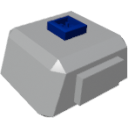
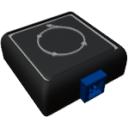
Updated all sensors

diff --git a/src/components/sensors/DensitySensor.md b/src/components/sensors/DensitySensor.md
@@ -1,0 +1,23 @@
+<p align="center">
+  <img src="DensitySensor.png" />
+</p>
+
+|Component|`DensitySensor`|
+|---|---|
+|**Module**|`ARCHEAN_sensor1`|
+|**Mass**|1 kg|
+|[**Size**](# "Based on the component's occupancy in a fixed 25cm grid.")|25 x 25 x 25 cm|
+#
+---
+
+# Description
+The density sensor is a component that measures the density and composition of the environment in which it is placed.
+
+# Usage
+Once placed on your build, it can be connected to a computer, for example, to retrieve the density and composition of the environment. The composition is given as a key-value string.
+
+### List of outputs
+|Channel|Function|value|
+|---|---|---|
+|0|Density (kg/m³)|number|
+|1|Composition|text|

diff --git a/src/SUMMARY.md b/src/SUMMARY.md
@@ -100,6 +100,7 @@
 		- [Linear Velocity Sensor](components/sensors/LinearVelocitySensor.md)
 		- [Angular Velocity Sensor](components/sensors/AngularVelocitySensor.md)
 		- [Vehicle Physics Sensor](components/sensors/VehiclePhysicsSensor.md)
+		- [Density Sensor](components/sensors/DensitySensor.md)
 		- [Solar Sensor](components/sensors/SolarSensor.md)
 
 	- [Joints]()

diff --git a/src/components/sensors/AngularVelocitySensor.md b/src/components/sensors/AngularVelocitySensor.md
@@ -4,7 +4,7 @@
 
 |Component|`AngularVelocitySensor`|
 |---|---|
-|**Module**|`ARCHEAN_sensor`|
+|**Module**|`ARCHEAN_sensor1`|
 |**Mass**| 1 kg|
 |[**Size**](# "Based on the component's occupancy in a fixed 25cm grid.")|25 x 25 x 25 cm|
 #

diff --git a/src/components/sensors/LinearVelocitySensor.md b/src/components/sensors/LinearVelocitySensor.md
@@ -4,7 +4,7 @@
 
 |Component|`LinearVelocitySensor`|
 |---|---|
-|**Module**|`ARCHEAN_sensor`|
+|**Module**|`ARCHEAN_sensor1`|
 |**Mass**| 1 kg|
 |[**Size**](# "Based on the component's occupancy in a fixed 25cm grid.")|25 x 25 x 25 cm|
 #

diff --git a/src/components/sensors/VehiclePhysicsSensor.md b/src/components/sensors/VehiclePhysicsSensor.md
@@ -4,7 +4,7 @@
 
 |Component|`VehiclePhysicsSensor`|
 |---|---|
-|**Module**|`ARCHEAN_sensor`|
+|**Module**|`ARCHEAN_sensor1`|
 |**Mass**| 1 kg|
 |[**Size**](# "Based on the component's occupancy in a fixed 25cm grid.")|25 x 25 x 25 cm|
 #

diff --git a/src/components/sensors/AltitudeSensor.md b/src/components/sensors/AltitudeSensor.md
@@ -4,7 +4,7 @@
 
 |Component|`AltitudeSensor`|
 |---|---|
-|**Module**|`ARCHEAN_sensor`|
+|**Module**|`ARCHEAN_sensor1`|
 |**Mass**|1 kg|
 |[**Size**](# "Based on the component's occupancy in a fixed 25cm grid.")|25 x 25 x 25 cm|
 #

diff --git a/src/components/sensors/SpeedSensor.md b/src/components/sensors/SpeedSensor.md
@@ -4,7 +4,7 @@
 
 |Component|`SpeedSensor`|
 |---|---|
-|**Module**|`ARCHEAN_sensor`|
+|**Module**|`ARCHEAN_sensor1`|
 |**Mass**|1 kg|
 |[**Size**](# "Based on the component's occupancy in a fixed 25cm grid.")|25 x 25 x 25 cm|
 #

diff --git a/src/components/sensors/TiltSensor.md b/src/components/sensors/TiltSensor.md
@@ -4,7 +4,7 @@
 
 |Component|`TiltSensor`|
 |---|---|
-|**Module**|`ARCHEAN_sensor`|
+|**Module**|`ARCHEAN_sensor1`|
 |**Mass**|1 kg|
 |[**Size**](# "Based on the component's occupancy in a fixed 25cm grid.")|25 x 25 x 25 cm|
 #
